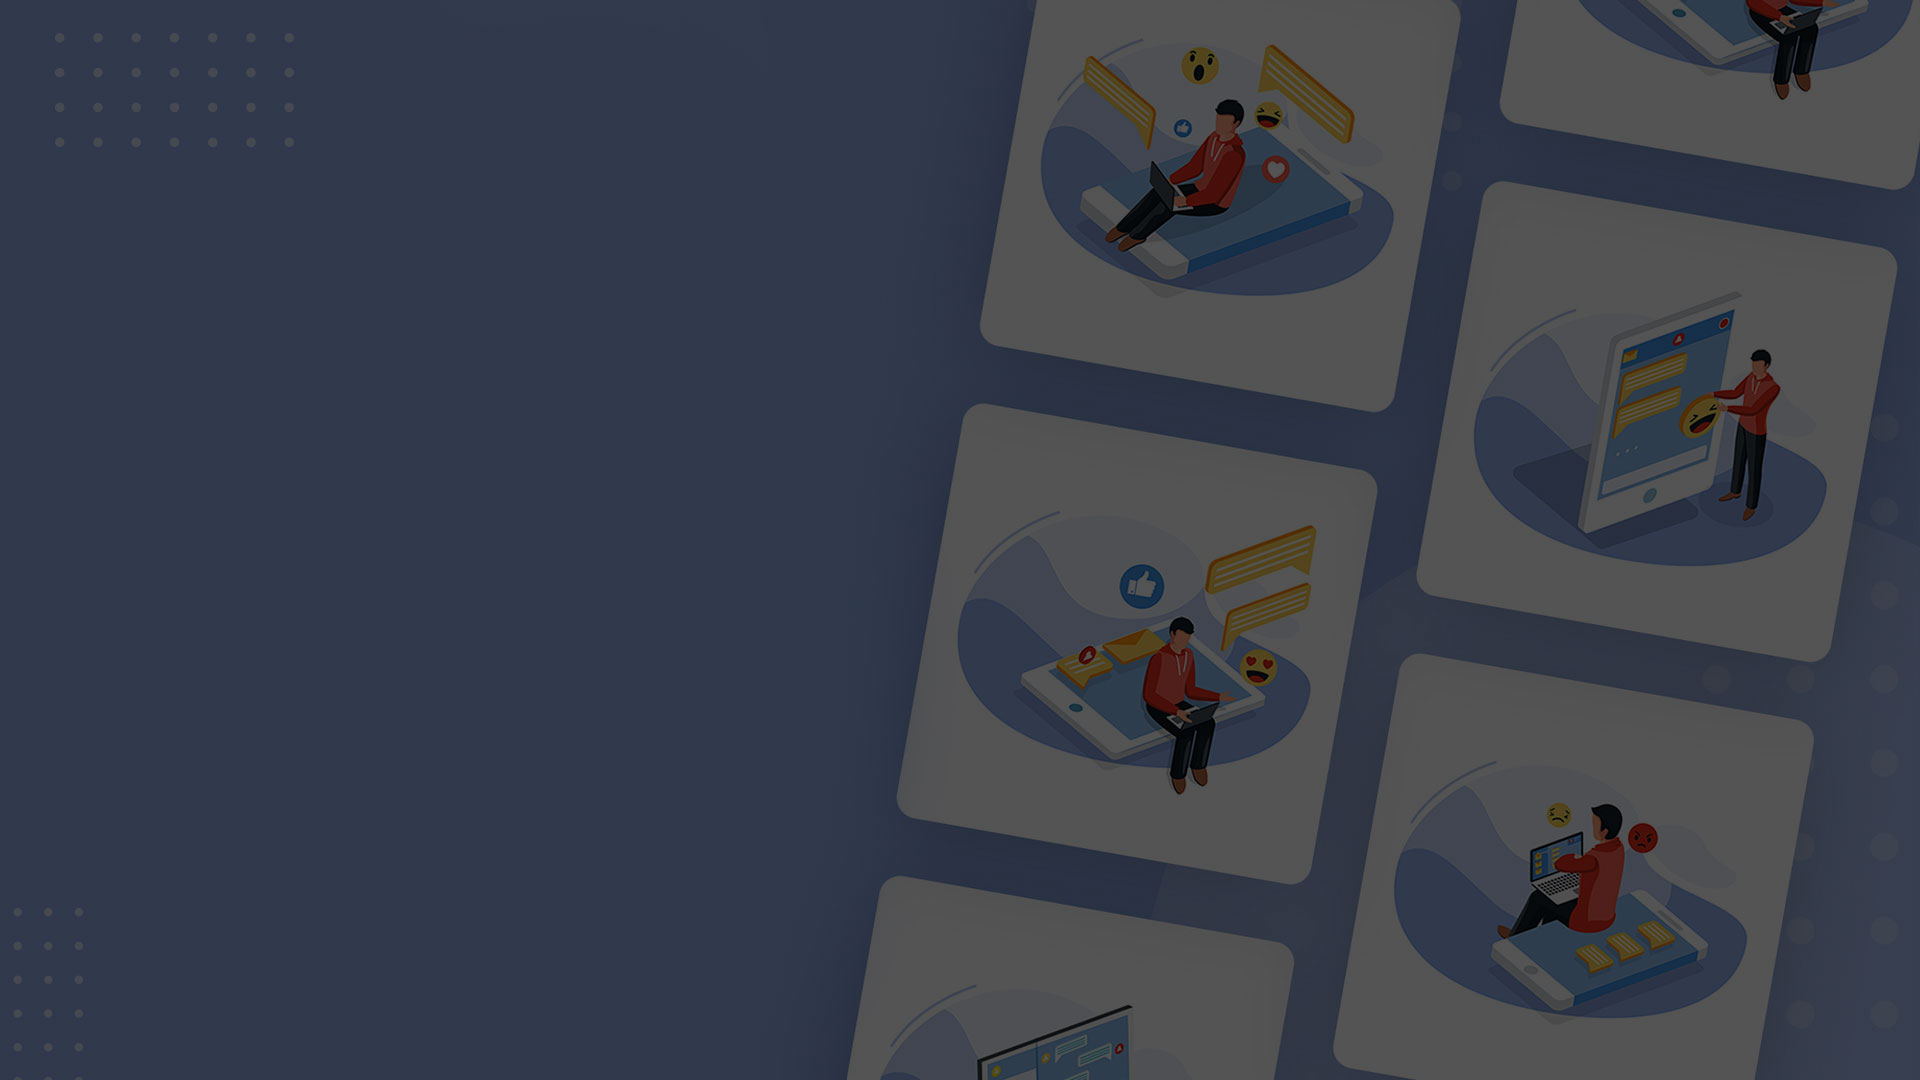
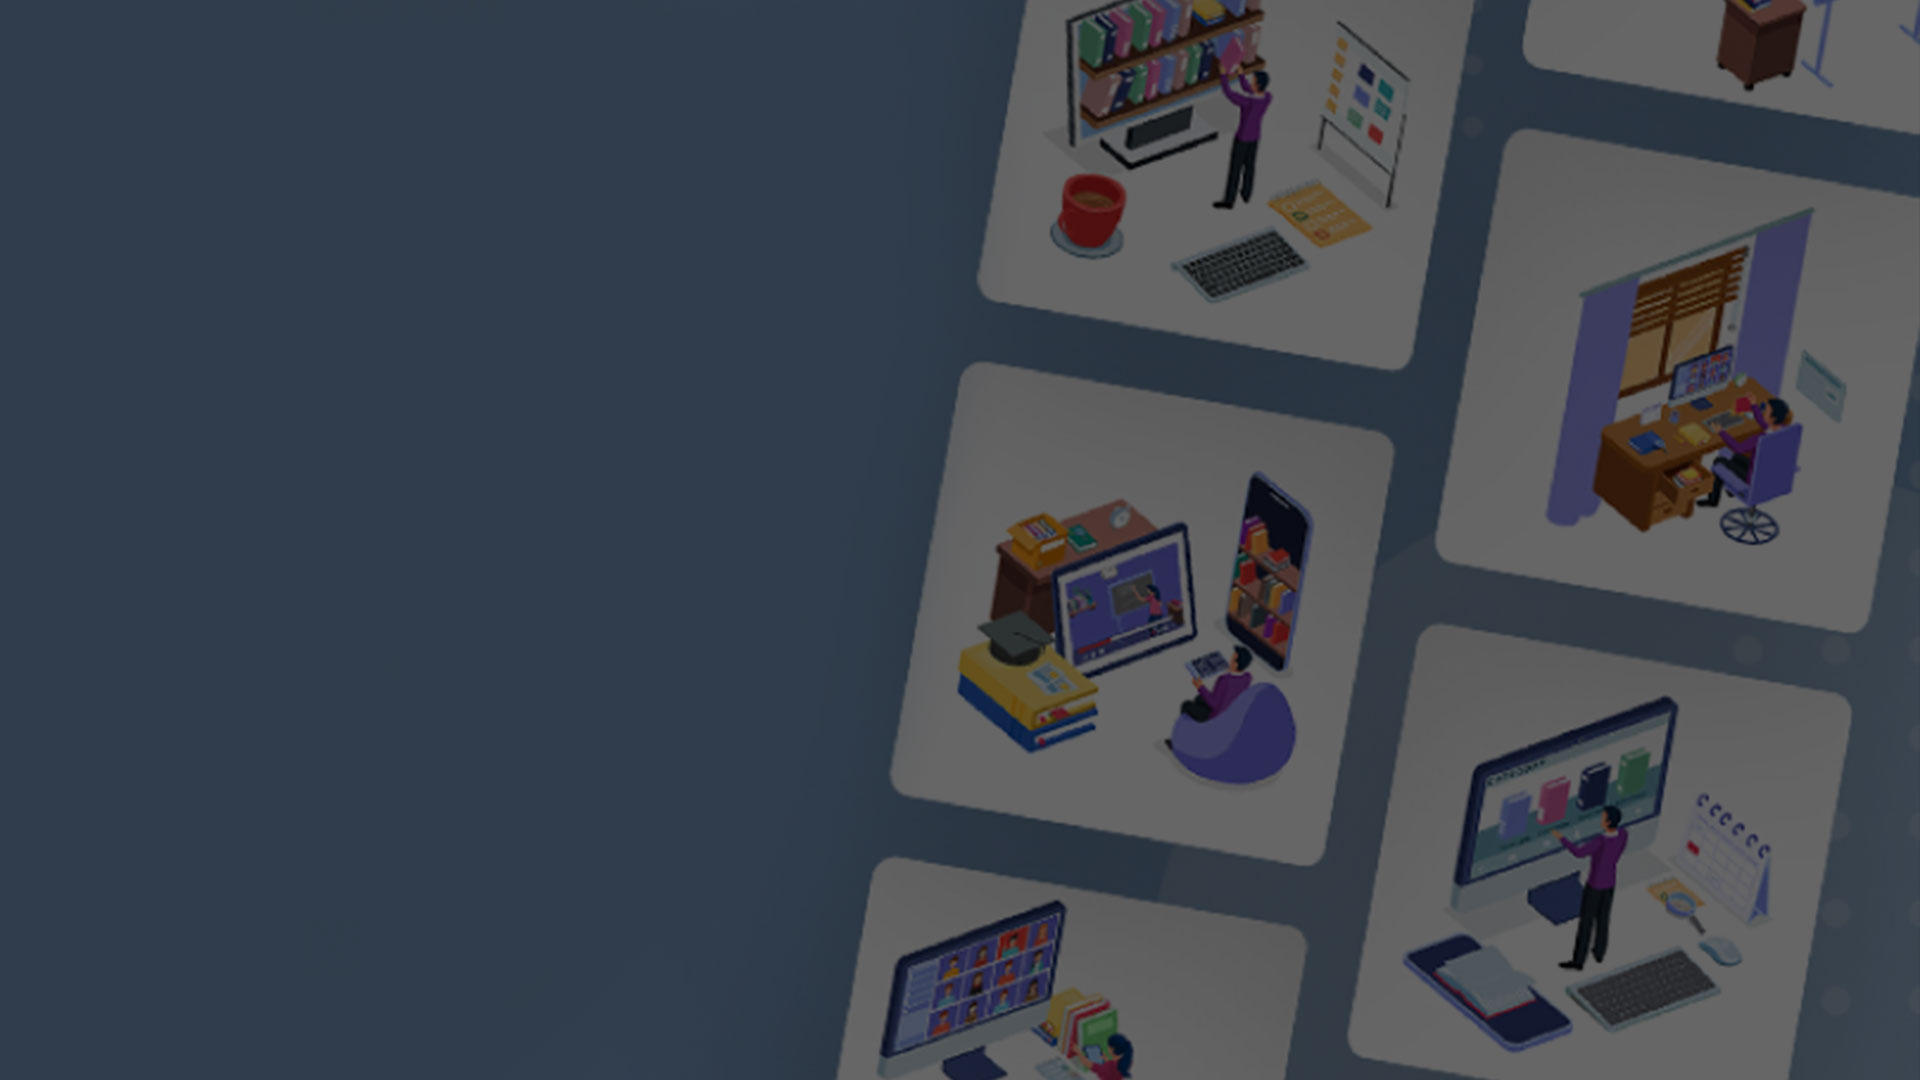
1

Changed region(s): [[0.4375, 0.0, 1.0, 1.0], [0.4375, 0.7028, 0.4688, 0.7333]]

diff --git a/projects.html b/projects.html
@@ -86,7 +86,7 @@
       <a class="brand" href="#">
         <img alt="" src="images/brand.png">
         <div class="brand-info">
-          <div class="brand-name">Ramsay</div>
+          <div class="brand-name">Hendric Simarmata</div>
         </div>
       </a>
 
@@ -98,17 +98,17 @@
       
       <div class="contacts d-none d-md-block">
         <div class="contact-item">
-          +96 56-85-1379
+          +62 812-3431-1725
         </div>
         <div class="contact-item spacer">
           /
         </div>
         <div class="contact-item">
-          <a href="mailto:contact@Ramsay.com">contact@Ramsay.com</a>
+          <a href="mailto:contact@hendricsimarmata.com">contact@HendricSimarmata.com</a>
         </div>
       </div>
     </header>
-    <div class="copy-bottom white boxed">© Ramsay 2019.</div>
+    <div class="copy-bottom white boxed">© Hendric Simarmata.</div>
     <div class="social-list social-list-bottom boxed">
         <a href="https://twitter.com/HendricMarmata" target="_blank" class="icon fab fa-twitter"></a>
           		<a href="https://facebook.com/HendricSimarmata" target="_blank" class="icon fab fa-facebook-f"></a>
@@ -129,8 +129,8 @@
                       <div class="project-detail-row">
                         <a class="" href="project-detail.html">
                           <span class="project-number">01</span>
-                          <h2 class="project-title">Abstract Skat</h2>
-                          <div class="project-category">Illustration</div>
+                          <h2 class="project-title">Time Management</h2>
+                          <div class="project-category">Isometric Illustration</div>
                         </a>
                       </div>
                     </div>
@@ -153,8 +153,8 @@
                       <div class="project-detail-row">
                         <a href="project-detail.html">
                           <span class="project-number">02</span>
-                          <h2 class="project-title">Borato Prism</h2>
-                          <div class="project-category">Branding</div>
+                          <h2 class="project-title">E-Learning Activity</h2>
+                          <div class="project-category">Isometric Illustration</div>
                         </a>
                       </div>
                     </div>
@@ -177,8 +177,8 @@
                       <div class="project-detail-row">
                         <a href="project-detail.html">
                           <span class="project-number">03</span>
-                          <h2 class="project-title">Brole Mobile App</h2>
-                          <div class="project-category">Mobile Design</div>
+                          <h2 class="project-title">Business Management</h2>
+                          <div class="project-category">Isometric Illustration</div>
                         </a>
                       </div>
                     </div>
@@ -201,8 +201,8 @@
                       <div class="project-detail-row">
                         <a href="project-detail.html">
                           <span class="project-number">04</span>
-                          <h2 class="project-title">Bauhaus Studio</h2>
-                          <div class="project-category">House Design</div>
+                          <h2 class="project-title">Social Media</h2>
+                          <div class="project-category">Isometric Illustration</div>
                         </a>
                       </div>
                     </div>
@@ -213,6 +213,7 @@
           </div>
         </div>
       </div>
+		<!--
       <div data-anchor="page5" class="pp-scrollable text-white section section-5">
         <div class="scroll-wrap">
           <div class="section-bg" style="background-image:url(images/bg/project5.jpg);"></div>
@@ -288,6 +289,7 @@
           </div>
         </div>
       </div>
+		-->
     </div>
   </div>
 <!-- jQuery -->

diff --git a/index.html b/index.html
@@ -336,6 +336,7 @@ j=d.createElement(s),dl=l!='dataLayer'?'&l='+l:'';j.async=true;j.src=
             <div class="section-bg" style="background-image:url(images/bg/project2.jpg);"></div>
             <div class="section-bg" style="background-image:url(images/bg/project3.jpg);"></div>
             <div class="section-bg" style="background-image:url(images/bg/project4.jpg);"></div>
+			<div class="section-bg" style="background-image:url(images/bg/project5.jpg);"></div>
           </div>
           <div class="scrollable-content">
             <div class="vertical-title  d-none d-lg-block"><span>Gallery</span></div>
@@ -368,12 +369,19 @@ j=d.createElement(s),dl=l!='dataLayer'?'&l='+l:'';j.async=true;j.src=
                             </a>
                           </div>
                           <div class="project-row">
-                            <a href="#">
+                            <a href="https://www.behance.net/gallery/97620173/Isometric-E-Learning-Activity-v2">
                               <span class="project-number">04</span>
-                              <h2 class="project-title">Social Media</h2>
+                              <h2 class="project-title">E-Learning Activity V2</h2>
                               <div class="project-category">Isometric Illustration</div>
                             </a>
                           </div>
+							<div class="project-row">
+                            <a href="https://www.behance.net/gallery/97874019/Business-Management-Illustration-Concept-V2">
+                              <span class="project-number">05</span>
+                              <h2 class="project-title">Business Management V2</h2>
+                              <div class="project-category">Isometric Illustration</div>
+                            </a>
+                          	</div>
                           <div class="view-all view-all-projects">
                             <a  href="https://Behance.net/HendricSimarmata">
                               View all projects on Behance
